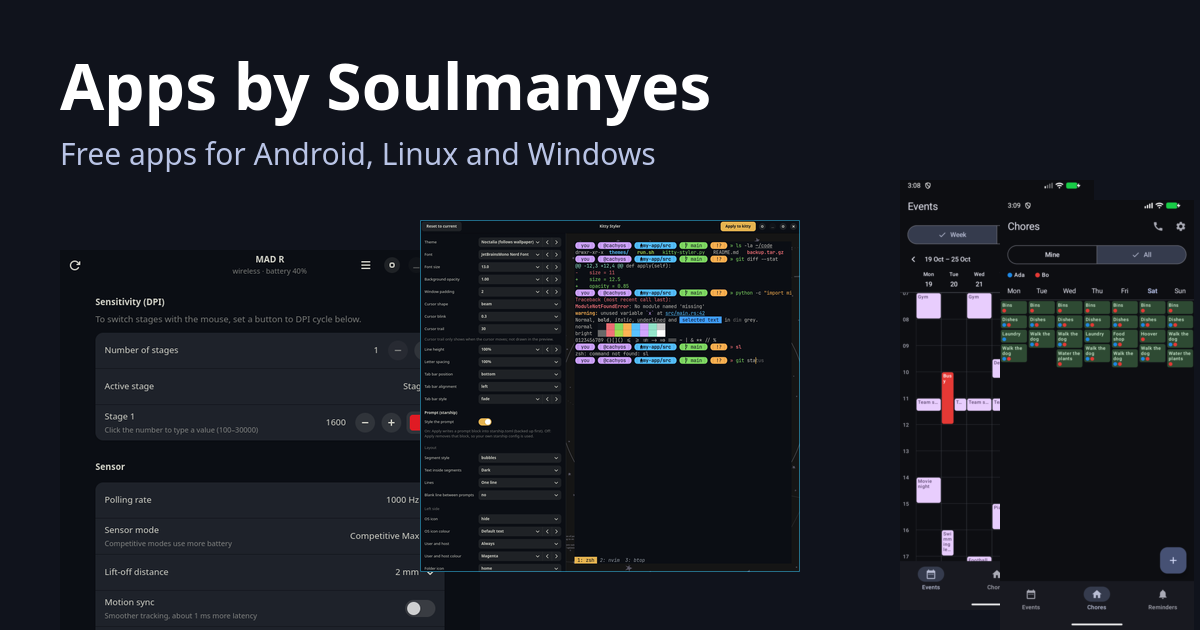
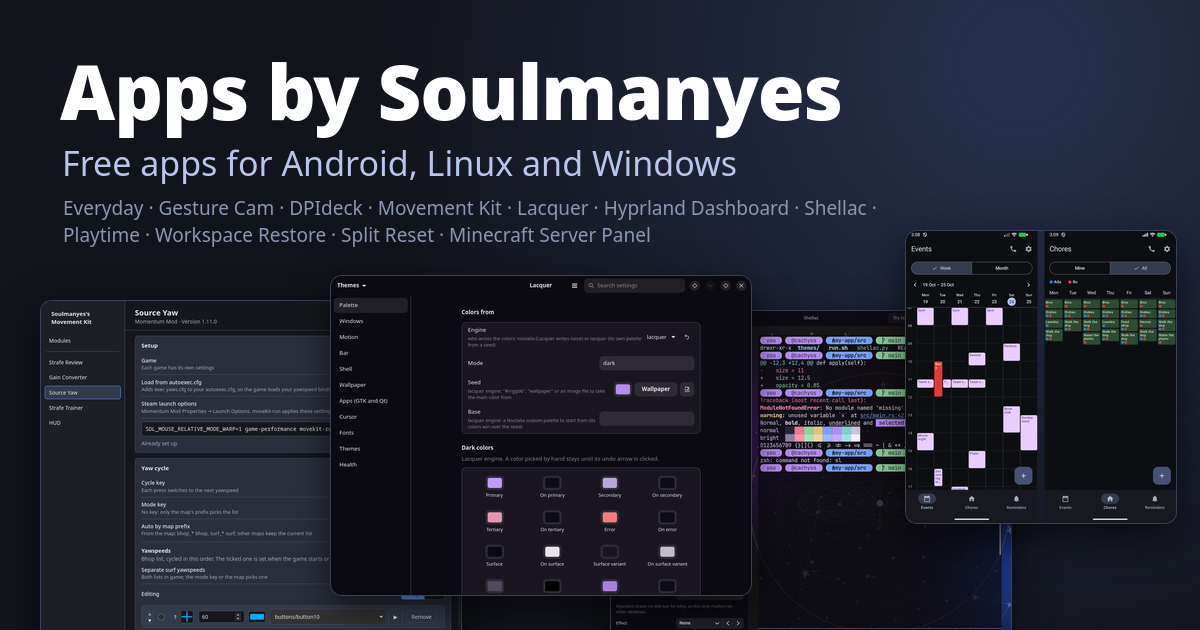
docs: link preview shows the current apps, with its source and render script

diff --git a/deploy/og/og.html b/deploy/og/og.html
@@ -1,0 +1,29 @@
+<!doctype html>
+<!-- Source of the apps page's link preview, deploy/apps/img/og.png (1200x630). Not published: it lives
+     outside deploy/apps. Render it with deploy/og/render.sh after changing the apps or their screenshots. -->
+<html lang="en">
+<head>
+<meta charset="utf-8">
+<style>
+  html, body { margin: 0; width: 1200px; height: 630px; overflow: hidden; }
+  body { position: relative; font-family: "Noto Sans", system-ui, sans-serif; color: #fff;
+         background: radial-gradient(circle at 85% 10%, #26304d 0, transparent 55%), #12141b; }
+  h1 { position: absolute; left: 60px; top: 38px; margin: 0; font-size: 76px; font-weight: 800; letter-spacing: -1px; }
+  .sub { position: absolute; left: 62px; top: 140px; font-size: 34px; color: #b9c5ea; }
+  .names { position: absolute; left: 63px; top: 194px; width: 820px; font-size: 19px; line-height: 1.45; color: #8d96b3; }
+  .shot { position: absolute; border-radius: 12px; border: 1px solid #3a4058;
+          box-shadow: 0 14px 40px rgba(0, 0, 0, .6); }
+</style>
+</head>
+<body>
+<h1>Apps by Soulmanyes</h1>
+<div class="sub">Free apps for Android, Linux and Windows</div>
+<div class="names">Everyday · Gesture Cam · DPIdeck · Movement Kit · Lacquer · Hyprland Dashboard · Shellac ·
+  Playtime · Workspace Restore · Split Reset · Minecraft Server Panel</div>
+<!-- Later ones sit on top. -->
+<img class="shot" style="left: 40px; top: 300px; width: 420px" src="https://raw.githubusercontent.com/Soulmanyes/movement-kit/main/sourceyaw/docs/screenshot.png" alt="">
+<img class="shot" style="left: 610px; top: 310px; width: 400px" src="https://raw.githubusercontent.com/Soulmanyes/shellac/main/docs/screenshot.png" alt="">
+<img class="shot" style="left: 330px; top: 275px; width: 420px" src="https://raw.githubusercontent.com/Soulmanyes/lacquer/master/docs/screenshot.png" alt="">
+<img class="shot" style="left: 905px; top: 230px; width: 270px" src="../apps/img/everyday.webp" alt="">
+</body>
+</html>
